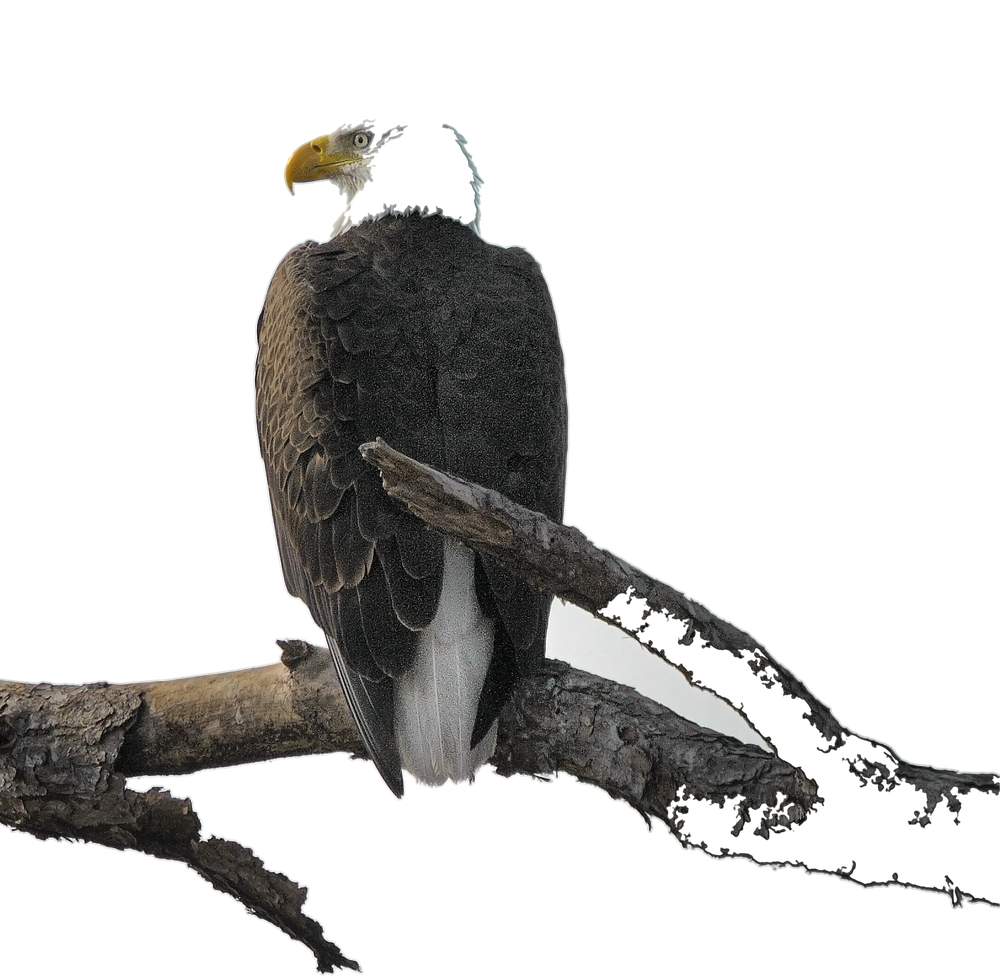
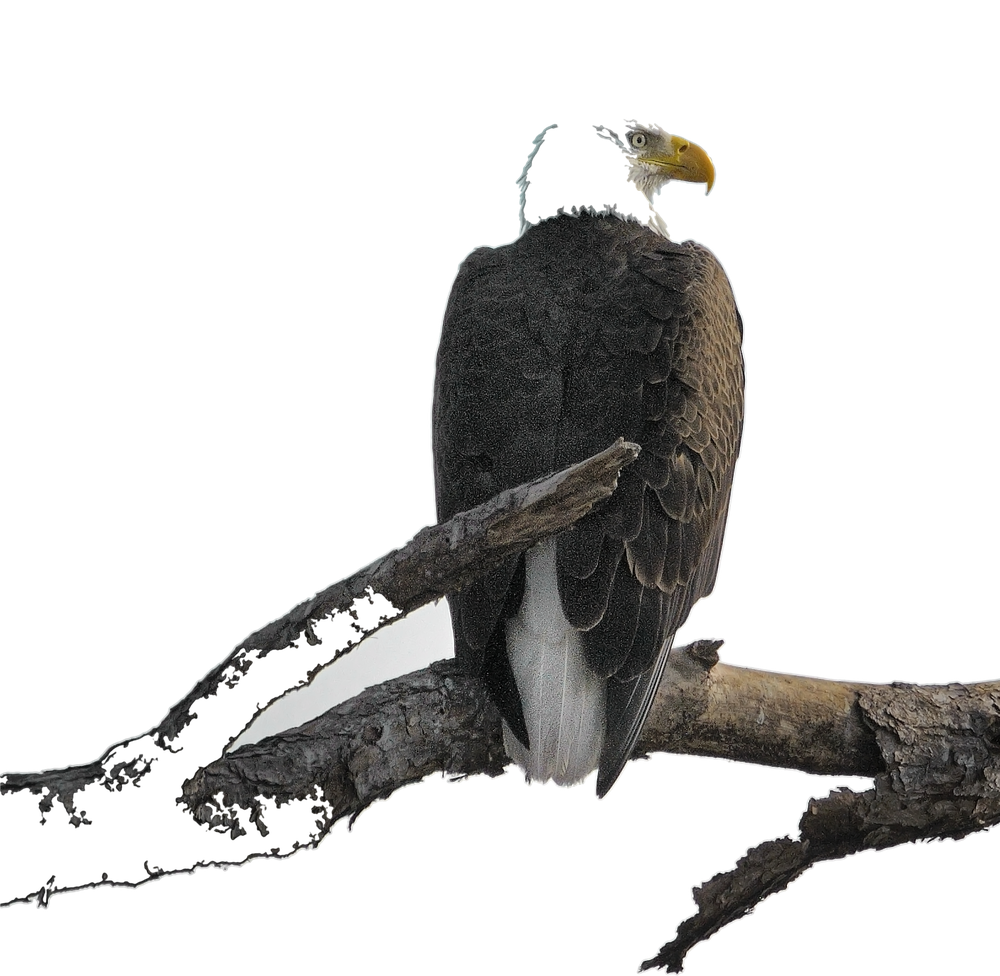
Flip console perched eagle to face away from the login form
The perched-eagle photo naturally looks left; since the cutout sits in the
top-right corner, that pointed it straight at the login form. Mirrored
horizontally so it faces right, off the edge of the page into open space,
instead of staring back at the content.

Claude-Session: https://claude.ai/code/session_01KsP4t9FXLU9cyTKocArg14

diff --git a/apps/console/public/brand/CREDIT.md b/apps/console/public/brand/CREDIT.md
@@ -9,8 +9,10 @@ chroma-key + spill suppression + connected-component cleanup, done locally; scri
 checked in), leaving a transparent-background PNG of just the eagle. Same public-domain
 source and license as above; the transparency doesn't change that.
 
-bald-eagle-perched-cutout.png — Bald eagle perched on a branch, alert posture, looking
-left. Photographer: Bill Wallen, October 2020. Source: https://www.fws.gov/media/bald-eagle-branch
+bald-eagle-perched-cutout.png — Bald eagle perched on a branch, alert posture. Original
+photo looks left; mirrored horizontally so the eagle faces away from the login form (out
+toward the right edge of the page) rather than in toward it, since it sits in the top-right
+corner. Photographer: Bill Wallen, October 2020. Source: https://www.fws.gov/media/bald-eagle-branch
 Public domain (U.S. government work) — no copyright restrictions, no attribution legally
 required, credited here anyway as good practice. Background removed locally (edge-detection
 flood fill from the image border rather than a color threshold, since this photo's sky
